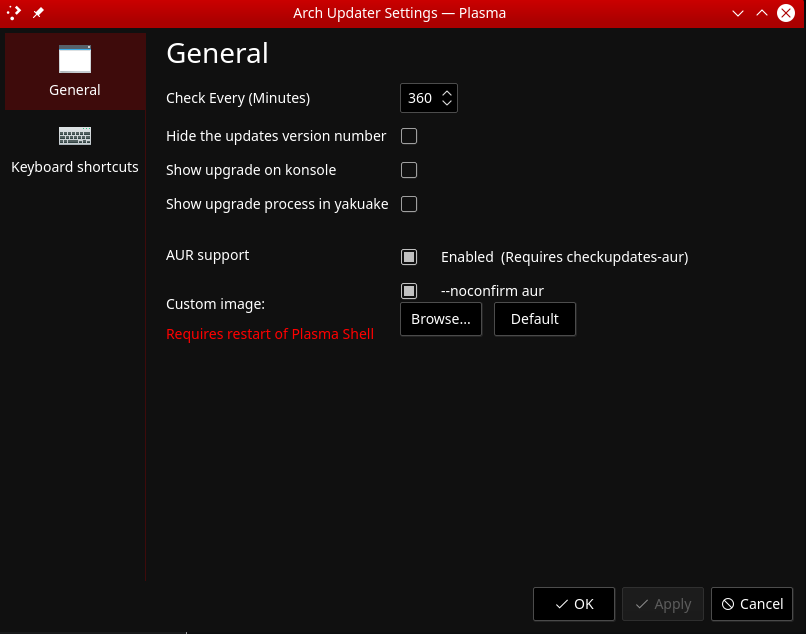
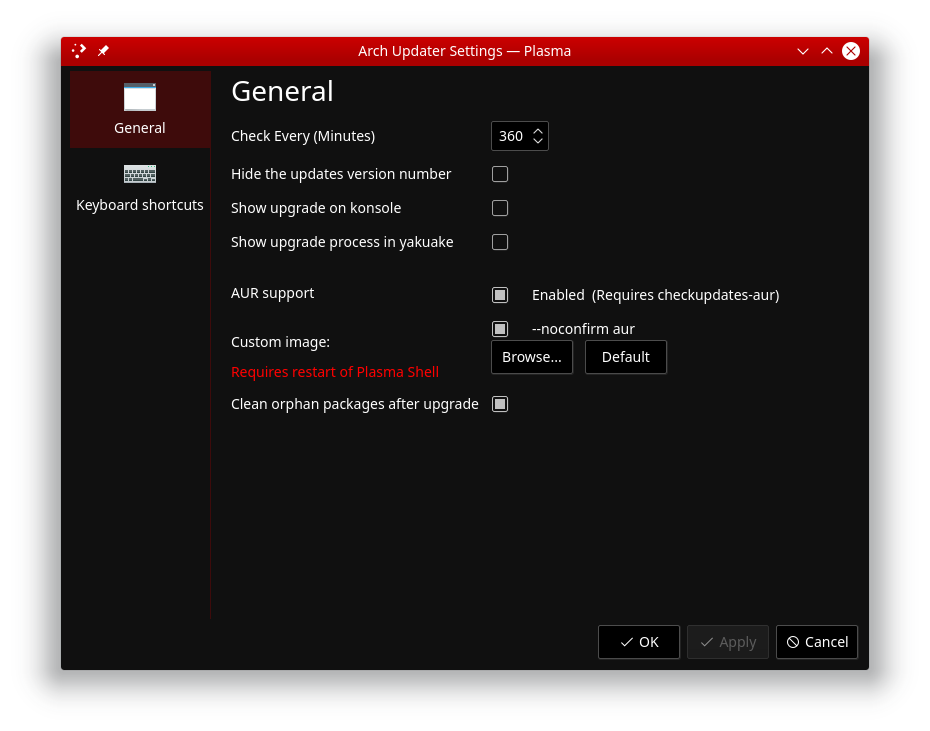
add option to clean orphan pacakges after upgrade #33

diff --git a/package/contents/ui/config/ConfigGeneral.qml b/package/contents/ui/config/ConfigGeneral.qml
@@ -15,6 +15,7 @@ Item {
     property alias cfg_aurSupportFlag: aurSupportCheckBox.checked
     property alias cfg_noConfirmAURFlag: noConfirmAURCheckBox.checked
     property alias cfg_yakuakeFlag: yakuakeCheckbox.checked
+    property alias cfg_orphanFlag: cleanOrphanCheckbox.checked
 
     GridLayout {
         id: checkboxGroup
@@ -125,11 +126,19 @@ Item {
             }
 
             Button {
-                anchors.left: imageBrowseButton.right +10
+                anchors.left: imageBrowseButton.right + 10
                 text: "Default"
                 onClicked: backend.resetImage()
             }
-
         }
+            Label {
+                text: i18n("Clean orphan packages after upgrade")
+            }
+
+            CheckBox {
+                id: cleanOrphanCheckbox
+                anchors.left: noConfirmAURCheckBox.left
+            }
+
     }
 }

diff --git a/package/contents/ui/FullRepresentation.qml b/package/contents/ui/FullRepresentation.qml
@@ -76,7 +76,8 @@ Item {
 				console.log("AUR FLAG" + plasmoid.configuration.aurSupportFlag)
 				console.log("NO COFIRM AUR" + plasmoid.configuration.noConfirmAURFlag)
 				console.log("YAKUAKE" + plasmoid.configuration.yakuakeFlag)
-				backend.upgradeSystem(plasmoid.configuration.konsoleFlag,plasmoid.configuration.aurSupportFlag,plasmoid.configuration.noConfirmAURFlag,plasmoid.configuration.yakuakeFlag);
+                console.log("ORPHAN FLAG" + plasmoid.configuration.orphanFlag)
+                backend.upgradeSystem(plasmoid.configuration.konsoleFlag,plasmoid.configuration.aurSupportFlag,plasmoid.configuration.noConfirmAURFlag,plasmoid.configuration.yakuakeFlag,plasmoid.configuration.orphanFlag);
 
 				main.updatesPending=0;
 				main.theModel.clear();

diff --git a/plugin/worker.cpp b/plugin/worker.cpp
@@ -390,7 +390,7 @@ QString Worker::prepareYakuake()
 }
 
 
-void Worker::upgradeSystem(bool konsoleFlag, bool aur, bool noconfirm, bool yakuakeFlag)
+void Worker::upgradeSystem(bool konsoleFlag, bool aur, bool noconfirm, bool yakuakeFlag, bool orphan)
 {
 	QProcess systemUpdateProcess;
 
@@ -421,7 +421,7 @@ void Worker::upgradeSystem(bool konsoleFlag, bool aur, bool noconfirm, bool yaku
 			this->yakuakeProcess->waitForStarted(-1);
 			prepareYakuake();
 			QThread::sleep(2);
-			return upgradeSystem(konsoleFlag, aur, noconfirm, yakuakeFlag);
+			return upgradeSystem(konsoleFlag, aur, noconfirm, yakuakeFlag, orphan);
 		}
 	}
 
@@ -536,6 +536,31 @@ void Worker::upgradeSystem(bool konsoleFlag, bool aur, bool noconfirm, bool yaku
 			this->upgradeProcessRunning = false;
 		}
 
+		if(orphan)
+		{
+			QProcess cleanOrphanProcess;
+			QStringList orphanArgs;
+			orphanArgs << "pacman" << "-Rns" << "$(pacman -Qtdq)";
+			cleanOrphanProcess.start("pkexec", orphanArgs);
+
+			if(cleanOrphanProcess.waitForStarted(-1))
+			{
+				if(cleanOrphanProcess.waitForFinished(-1))
+					;
+				else
+				{
+					qDebug() << "org.kde.archUpdate:  cannot finish clean orphan process";
+					this->mutex = false;
+					this->upgradeProcessRunning = false;
+				}
+			}
+			else
+			{
+				qDebug() << "org.kde.archUpdate:  cannot start clean orphan process";
+				this->mutex = false;
+				this->upgradeProcessRunning = false;
+			}
+		}
 		qDebug() << "org.kde.archUpdate: Upgrade process finished";
 		this->mutex = false;
 		this->upgradeProcessRunning = false;

diff --git a/plugin/systemCalls.h b/plugin/systemCalls.h
@@ -32,7 +32,7 @@ class systemCalls : public QObject
 		~systemCalls();
 
 		Q_INVOKABLE void checkUpdates(bool namesOnly, bool aur);
-		Q_INVOKABLE void upgradeSystem(bool konsoleFlag, bool aur, bool noconfirm, bool yakuake);
+		Q_INVOKABLE void upgradeSystem(bool konsoleFlag, bool aur, bool noconfirm, bool yakuake, bool orphan);
 
 		void noop();
 		
@@ -61,7 +61,7 @@ class systemCalls : public QObject
 
 		 @details upgrades system. if konsoleflag=true show updates in console. if aur is true run AUR helper and update AUR packages. sets worker->updates to empty list if success or an error string
 		 */
-		void upgradeSystemSignal(bool konsoleFlag, bool aur, bool noconfirm, bool yakuake);
+		void upgradeSystemSignal(bool konsoleFlag, bool aur, bool noconfirm, bool yakuake, bool orphan);
 
 
 };

diff --git a/plugin/systemCalls.cpp b/plugin/systemCalls.cpp
@@ -88,13 +88,13 @@ Q_INVOKABLE void systemCalls::checkUpdates(bool namesOnly, bool aur)
 }
 
 
-Q_INVOKABLE void systemCalls::upgradeSystem(bool konsoleFlag, bool aur, bool noconfirm, bool yakuake)
+Q_INVOKABLE void systemCalls::upgradeSystem(bool konsoleFlag, bool aur, bool noconfirm, bool yakuake, bool orphan)
 {
 	if(worker->upgradeProcessRunning)
 		return;
 	worker->mutex = true;
 	worker->upgradeProcessRunning = true;
-	emit systemCalls::upgradeSystemSignal(konsoleFlag, aur, noconfirm, yakuake);
+	emit systemCalls::upgradeSystemSignal(konsoleFlag, aur, noconfirm, yakuake, orphan);
 }
 
 

diff --git a/plugin/worker.h b/plugin/worker.h
@@ -22,7 +22,7 @@ class Worker : public QObject
 	public slots:
 
 		void checkUpdates(bool namesOnly, bool aur);
-		void upgradeSystem(bool konsoleFlag, bool aur, bool noconfirm, bool yakuake);
+		void upgradeSystem(bool konsoleFlag, bool aur, bool noconfirm, bool yakuake,bool orphan);
 
 };
 #endif
